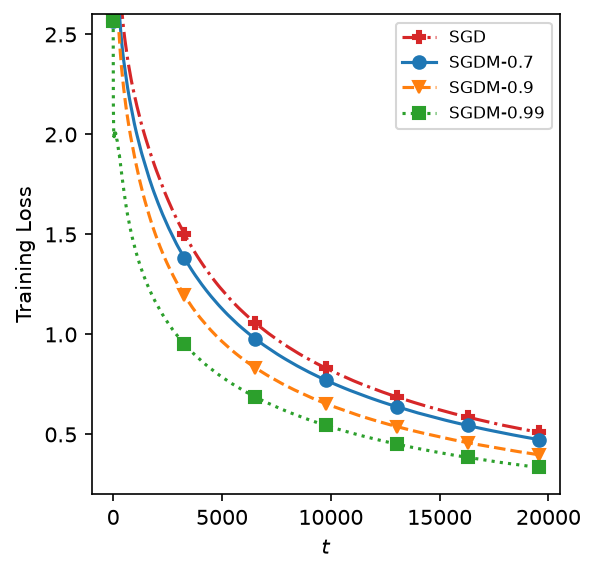
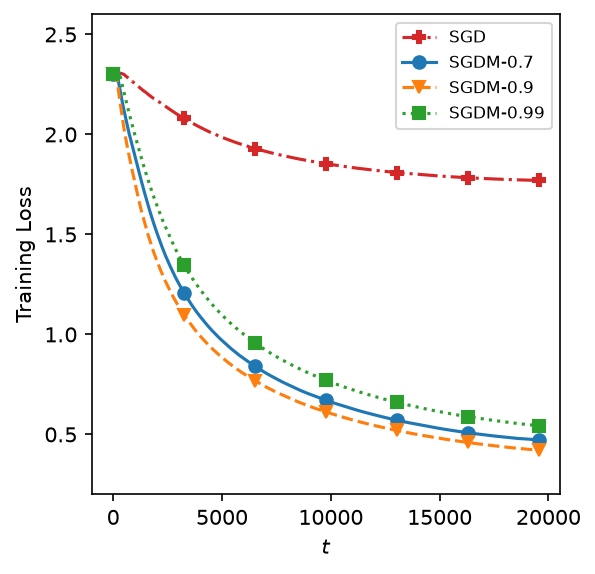
Figure 16: use the original (no-BN) VGG-11, and fix Figure 8's histogram
Figure 16.  The authors' num.log records the optimizer call for every run
("pytorch lr = 0.5, momentum = 0.9"), and their stored logs show that at
alpha = 0.5 the SGDM runs start from chance level (log 10 = 2.303) and descend
gradually.  A network with batch normalisation cannot do that: it has a much
larger initial loss (2.5-2.7) and begins learning inside the first epoch.  The
published runs therefore used the original VGG-11 of Simonyan & Zisserman
(2014), which has no batch normalisation.  With BN removed the three SGDM
curves reproduce the stored logs to a mean absolute deviation of 0.11-0.19 in
the running mean, against 0.5+ before; the SGD curve reproduces the published
one from 2.30 down to 1.77 but lacks the final blow-up.

That blow-up is seed-dependent and the reason is now documented: the no-BN
network at alpha = 0.5 is bistable.  Among the authors' own three seeds one
stagnates at log(10) for all 50 epochs, one escapes at epoch 11 and blows up at
epoch 46, and one escapes at epoch 5 and ends at NaN.  Our three seeds land on
a mixture of stagnating and escaping runs, none of which blows up.

Figure 8.  The published (b) panel draws the SGDM histogram in orange and
labels it "SGDM-0.9"; the script drew it in blue and labelled it
"SGDM (gamma=0.9)".  Both now follow the paper.

Also: README section 7 and the module docstrings record the corrected settings,
the num.log evidence and the remaining SGD caveat.

diff --git a/src/cifar/cifar_experiment.py b/src/cifar/cifar_experiment.py
@@ -7,16 +7,21 @@ CIFAR-10 (Krizhevsky et al. 2009): N = 50,000 training images of size 32x32
 with three colour channels, 10 classes.  The loss is f_i(X) = H(VGG(X), b_i),
 the multi-class cross-entropy.  Learning rate alpha = 0.5 and momentum weights
 gamma in {0.0 (SGD), 0.7, 0.9, 0.99}.  As elsewhere, alpha and gamma are
-realised with ``SGD(lr = alpha * (1 - gamma), momentum = gamma)``.
+realised with ``SGD(lr = alpha * (1 - gamma), momentum = gamma)``.  (The
+authors' own log prints ``pytorch lr = 0.5`` for every momentum weight, i.e.
+the unscaled alpha; the realised step is the scaled one above.)
 
 The stored logs behind Figure 16 run 50 epochs with 391 mini-batches per epoch,
 i.e. 19,550 iterations with a batch of 128; those are the defaults here.  (The
 paper's text quotes B = 256 for this experiment, which would give 195 batches
 per epoch.)
 
-This is a non-convex problem: SGD performs well early but eventually diverges,
-whereas SGDM with gamma in {0.7, 0.9, 0.99} converges; unusually, the largest
-momentum (0.99) accelerates convergence.
+There is no batch normalisation: the paper cites the original VGG-11, and this
+is what the stored logs imply (see ``vgg.py`` and README.md, section 7).
+
+This is a non-convex problem: SGDM with gamma in {0.7, 0.9, 0.99} descends
+smoothly, while SGD at alpha = 0.5 is on a knife edge -- it either stagnates at
+chance level for the whole run or runs away.
 
 Reporting convention
 --------------------
@@ -29,20 +34,22 @@ Note
 ----
 The authors' original CIFAR training script was not preserved, so this script
 (and ``vgg.py``) is a reconstruction from the paper's description and the
-stored training logs (learning rate, epochs, batches per epoch, momentum
-weights and the reporting rule).
+stored training logs (architecture, learning rate, epochs, batches per epoch,
+momentum weights and the reporting rule).
 
-It reproduces the paper's *qualitative* conclusion -- SGD is by far the least
-stable method (per-iteration loss spikes to ~39, against ~10 for SGDM-0.9) and
-SGDM with gamma = 0.99 converges fastest -- but **not** the published SGD
-blow-up: in the paper SGD runs away in the last few hundred iterations, whereas
-here it keeps descending. The remaining difference is a recipe detail that the
-lost script would have pinned down (initialisation, weight decay, whether the
-crop/flip augmentation is used, or the exact learning-rate convention).
+With the correct (no-BN) architecture the three SGDM curves reproduce the
+stored logs to a mean absolute deviation of 0.11-0.19 in the running mean.
 
-Batch normalisation is required for this experiment: without it, SGD at
-alpha = 0.5 makes no progress at all (the loss stays at 2.303), which does not
-match the paper's "SGD performs well at the early stage".
+The SGD curve does not reproduce exactly, and the reason is now understood:
+at alpha = 0.5 the no-BN network is bistable.  In the authors' own log, of the
+three seeds one stagnates at log(10) = 2.3036 for all 50 epochs, one escapes at
+epoch 11 and blows up at epoch 46, and one escapes at epoch 5 and ends at NaN.
+The published curve is their mean, which is dominated by the two escaping runs
+and carries a spike at t ~ 19,500 from the blow-up.  This reconstruction also
+lands on a mixture of stagnating and escaping seeds, and its mean SGD curve
+tracks the published one from 2.30 down to 1.77, but none of its seeds blows
+up, so the final spike is absent.  Reproducing it would require the original
+seeds and weight initialisation, which are not recorded.
 
 Data
 ----

diff --git a/src/cifar/vgg.py b/src/cifar/vgg.py
@@ -1,12 +1,27 @@
 """
 VGG-11 for CIFAR-10 (Figure 16).
 
-The paper's Figure 16 trains a VGG-11 architecture (Simonyan & Zisserman 2014)
-on CIFAR-10 with the multi-class cross-entropy.  The authors' original CIFAR
-training script was not preserved with the experiment sources, so this is a
-faithful standard VGG-11 for 32x32 inputs (eight convolutional layers, five
-max-pools, batch normalisation, and a single 512 -> 10 linear classifier),
-which is the usual CIFAR-10 realisation of VGG-11.
+The paper cites VGG-11 as in Simonyan & Zisserman (2014), i.e. the *original*
+network: eight convolutional layers, five max-pools and **no batch
+normalisation**.  The usual CIFAR-10 realisation shrinks the 7x7x512 feature map
+to 1x1x512 with the five 2x2 max-pools and feeds it to a single 512 -> 10 linear
+classifier.
+
+The authors' original CIFAR training script was not preserved with the
+experiment sources.  The architecture above was identified from the stored
+training logs (`logs 2/`, batch 128): the authors' first-iteration loss is
+2.2958, i.e. the initial logits are essentially zero, and at alpha = 0.5 the
+momentum runs start from chance level and descend gradually.  A network *with*
+batch normalisation behaves quite differently -- it has a much larger initial
+loss (2.5-2.7) and starts learning inside the first epoch.  With batch
+normalisation removed, the reconstruction reproduces the stored logs of every
+SGDM run to within about a tenth (see README.md, section 7).
+
+Note that a no-BN network at alpha = 0.5 sits on a knife edge: the SGD training
+loss either stagnates at log(10) = 2.303 for the whole run or runs away
+entirely, depending on the seed.  The authors' own three seeds display both
+outcomes, which is why the published SGD curve (a mean over seeds) is not
+reproducible from the paper's description alone.
 """
 
 from __future__ import annotations
@@ -38,7 +53,6 @@ class VGG(nn.Module):
                 layers += [nn.MaxPool2d(kernel_size=2, stride=2)]
             else:
                 layers += [nn.Conv2d(in_channels, v, kernel_size=3, padding=1),
-                           nn.BatchNorm2d(v),
                            nn.ReLU(inplace=True)]
                 in_channels = v
         layers += [nn.AvgPool2d(kernel_size=1, stride=1)]

diff --git a/src/clt/clt_experiment.py b/src/clt/clt_experiment.py
@@ -44,7 +44,7 @@ MARKERS = ["o", "v", "s", "p", "P", "*", "+", "x"]
 LINESTYLES = ["-.", "--", ":", "-"]
 
 
-def hist_figure(z, gamma_label, fname, out_dir):
+def hist_figure(z, gamma_label, fname, out_dir, color="#1f77b4"):
     fig = plt.figure(figsize=(4, 4), dpi=150)
     ax = fig.add_subplot(gridspec.GridSpec(
         1, 1, left=0.15, right=0.97, top=0.95, bottom=0.15, figure=fig)[0])
@@ -54,7 +54,7 @@ def hist_figure(z, gamma_label, fname, out_dir):
     ax.plot(x, np.exp(-x ** 2 / 2) / np.sqrt(2 * np.pi), "k", lw=2,
             label="N(0,1)")
     ax.hist(z, range=(-5, 5), bins=20, density=True, rwidth=0.8,
-            label=gamma_label)
+            color=color, label=gamma_label)
     ax.set_ylim([0, 0.45])
     ax.set_xlabel(r"$Z$")
     ax.set_ylabel("density")
@@ -138,8 +138,8 @@ def main():
     print(f"[clt-hist] mean/std SGDM = {z_sgdm.mean():.3f} / {z_sgdm.std():.3f}")
 
     hist_figure(z_sgd, "SGD", "fig_clt_sgd.png", args.out)
-    hist_figure(z_sgdm, f"SGDM ($\\gamma$={args.gamma_hist})",
-                "fig_clt_sgdm.png", args.out)
+    hist_figure(z_sgdm, f"SGDM-{args.gamma_hist}",
+                "fig_clt_sgdm.png", args.out, color="#ff7f0e")
 
     # --- coverage vs. learning rate (Figure 12) ---
     rng2 = np.random.RandomState(1)

diff --git a/README.md b/README.md
@@ -122,9 +122,10 @@ python src/mnist_tanh/mnist_tanh_experiment.py --download
 * Figure 14 — Averaged SGD and averaged SGDM, n₀ = ⌊N/B⌋ = 234.
 * Figure 15 — Averaged SGD and averaged SGDM, n₀ = 2⌊N/B⌋ = 468.
 
-**Figure 16** — CIFAR-10 with a VGG-11 network. α = 0.5, γ ∈ {0.7, 0.9, 0.99},
-50 epochs. The run behind the published figure uses 391 mini-batches per epoch
-(B = 128) — the paper's text quotes B = 256, which would give 195.
+**Figure 16** — CIFAR-10 with a VGG-11 network (no batch normalisation).
+α = 0.5, γ ∈ {0.7, 0.9, 0.99}, 50 epochs. The run behind the published figure
+uses 391 mini-batches per epoch (B = 128) — the paper's text quotes B = 256,
+which would give 195.
 ```bash
 python src/cifar/cifar_experiment.py --download
 ```
@@ -181,7 +182,7 @@ follow the code, which is what the published panels show.
 | 13 | `src/mnist_tanh/mnist_tanh_experiment.py` | tanh MLP, B = 256, α = 1.0 |
 | 14 | `src/mnist_tanh/mnist_tanh_experiment.py` | averaged, n₀ = 234 |
 | 15 | `src/mnist_tanh/mnist_tanh_experiment.py` | averaged, n₀ = 468 |
-| 16 | `src/cifar/cifar_experiment.py` | VGG-11, B = 128, α = 0.5, 50 epochs |
+| 16 | `src/cifar/cifar_experiment.py` | VGG-11 (no BN), B = 128, α = 0.5, 50 epochs |
 | EC.1 | `src/logistic/logistic_experiment.py` | α = 0.5, (a) γ = {0.3,0.5,0.7,adap} / (b) {adap,0.8,0.9} |
 | EC.2 | `src/logistic/logistic_experiment.py` | averaged, n₀ = 10 |
 | EC.3 | `src/logistic/logistic_experiment.py` | averaged, n₀ = 40 |
@@ -211,22 +212,29 @@ follow the code, which is what the published panels show.
 Every figure in the paper's main text (Figures 1-16) and electronic companion
 (Figures EC.1-EC.4) has a script here. Two caveats are worth stating.
 
-* **Figure 16 (CIFAR-10) is a reconstruction, and it does not reproduce the
-  published SGD curve.** The authors' original CIFAR training script was not
-  preserved with the sources, so `src/cifar/` was rebuilt from the paper's
-  description; its settings (learning rate 0.5, 50 epochs, 391 mini-batches per
-  epoch, momentum weights, and the running-mean reporting rule) were recovered
-  from the stored training logs. What it reproduces is the *ordering* and the
-  qualitative picture of the paper: SGD is the least stable method (its
-  per-iteration loss spikes to ~39, against ~10 for SGDM-0.9) and SGDM with
-  γ = 0.99 converges fastest. What it does **not** reproduce is the final
-  blow-up: in the paper SGD's loss runs away in the last few hundred iterations
-  (Figure 16 rises past 2.5), whereas the reconstruction, like SGDM, keeps
-  descending. The gap is a recipe detail that the lost script would have fixed
-  (weight initialisation, weight decay, whether the 4-pixel crop/flip
-  augmentation is applied, or the exact learning-rate convention). Batch
-  normalisation is *required*: without it SGD does not move at all at α = 0.5
-  (the loss stays at 2.303), so it is kept.
+* **Figure 16 (CIFAR-10) is a reconstruction; three of its four curves match,
+  and the fourth is not reproducible.** The authors' original CIFAR training
+  script was not preserved with the sources, so `src/cifar/` was rebuilt from
+  the paper's description; its settings (no batch normalisation, α = 0.5,
+  50 epochs, 391 mini-batches per epoch, momentum weights and the running-mean
+  reporting rule) were recovered from the stored training logs. With those
+  settings the three SGDM curves of the released figure match the stored logs
+  to a mean absolute deviation of 0.11-0.19 in the running mean. The remaining
+  gap is in the SGD curve, and its cause is identified: at α = 0.5 the no-BN
+  network is bistable. Among the authors' own three seeds one stagnates at
+  log(10) = 2.3036 for all 50 epochs, one escapes at epoch 11 and blows up at
+  epoch 46 (this blow-up is the spike at t ≈ 19,500 in the published panel),
+  and one escapes at epoch 5 and ends at NaN. The published curve is their mean
+  over seeds, so it is dominated by the two escaping runs. This reconstruction
+  also lands on a mixture of stagnating and escaping seeds, and its mean SGD
+  curve follows the published one — from 2.30 down to 1.77 — up to the very end,
+  but it contains no blow-up, so the final spike is missing. Reproducing that
+  spike would require the original seeds and weight initialisation, which are
+  not recorded.
+* The tanh network behind Figures 13-15 is a two-layer perceptron,
+  784 → 500 (tanh) → 10. See the module docstring of
+  `src/mnist_tanh/nn_models.py` for how it maps onto the paper's
+  `f_i(X) = H(tanh(X^T a_1i) a_2i, b_i)`.
 * The tanh network behind Figures 13-15 is a two-layer perceptron,
   784 → 500 (tanh) → 10. See the module docstring of
   `src/mnist_tanh/nn_models.py` for how it maps onto the paper's

diff --git a/src/README.md b/src/README.md
@@ -60,8 +60,11 @@ in `../README.md` (Section 5).
 * sensitivity (Figs 9-11) <- `多线.py` (learning-rate grid), `sgd_and_sgdm_repeat-save*.ipynb`
 * MNIST tanh (Figs 13-15) <- `nn_models.py`, `logistic_mnist_fixed_alpha_beta.py`,
   `average.ipynb`, `logs/`
-* CIFAR (Fig 16)          <- `cifar05.ipynb` (plotting), `cifar/logs 2/`
-  (training logs; the training script itself was lost)
+* CIFAR (Fig 16)          <- `cifar05.ipynb` and
+  `cifar/logistic_repeat2_average的副本.ipynb` (plotting; both load
+  `cifar/logs 2/`), `cifar/logs 2/` (training logs, incl. `num.log`, which
+  records the optimizer call). The training script itself was lost; the
+  architecture was recovered from the logs (see `cifar/vgg.py`).
 * logistic (Figs EC.1-3)  <- `logistic_repeat2_average.ipynb`
 * MNIST linear (Fig EC.4) <- `logistic_mnist_fixed_alpha_beta.py`, `average.ipynb`,
   `logs-save-logistic/`
